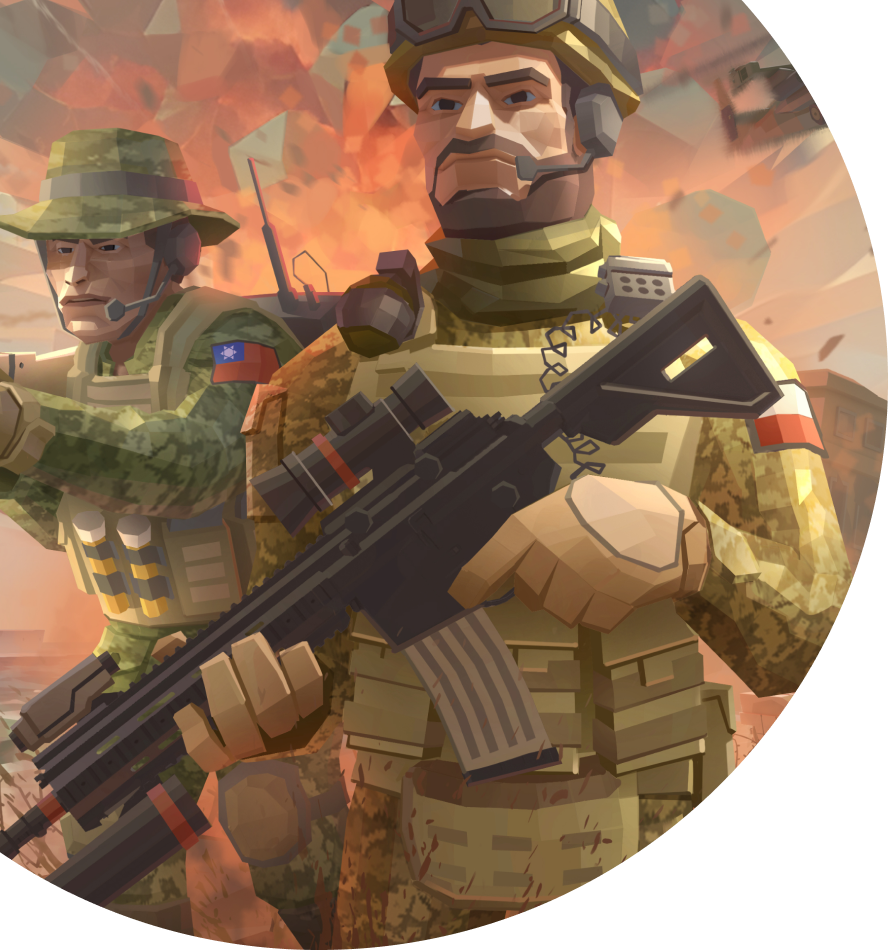
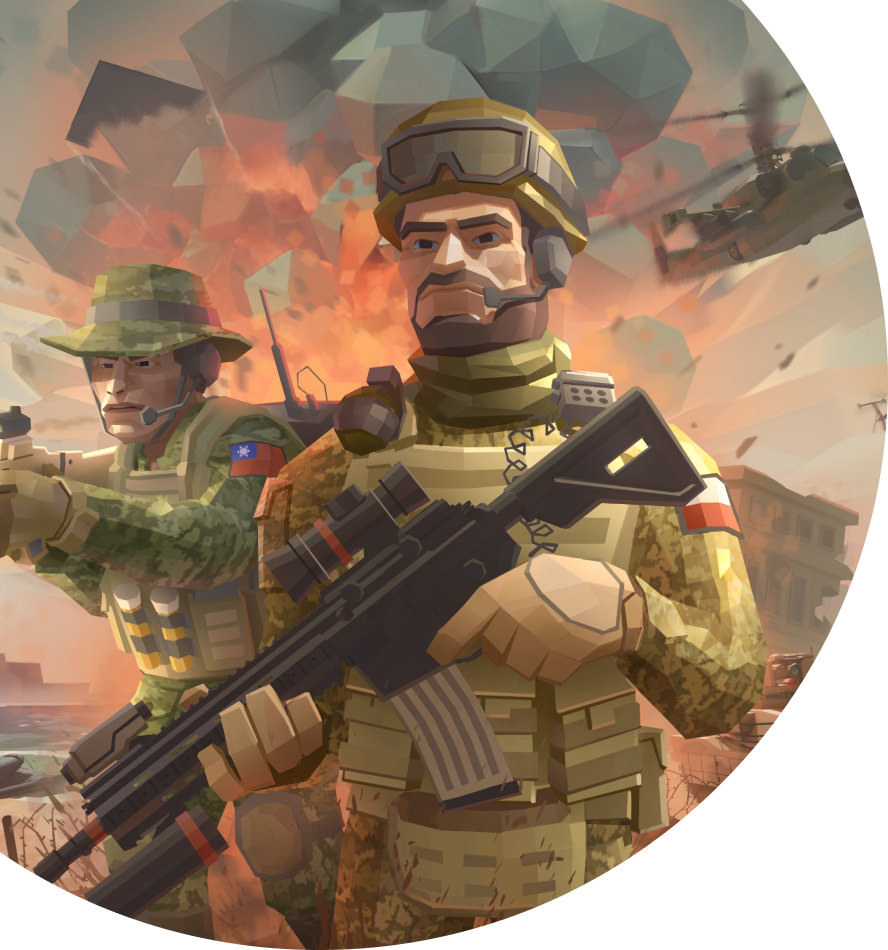
Fixed Responsiveness

diff --git a/style.css b/style.css
@@ -16,7 +16,8 @@
 
 .screenContainer {
     width: 100%;
-    height: 100vh;
+    min-height: 100vh;
+    height: auto;
     display: flex;
     background-color: #000000;
     position: relative;
@@ -29,11 +30,14 @@
 }
 
 .screenContainer .screenMiddle {
+    height: auto;
     width: 35%;
     display: flex;
     flex-direction: column;
     justify-content: center;
     padding-left: 2rem;
+    padding-top: 2rem;
+    padding-bottom: 2rem;
 }
 
 .screenContainer .helmetIcon {
@@ -48,6 +52,7 @@
     width: 200px;
     height: 98px;
     object-fit: contain;
+
 }
 
 .screenContainer .screenMiddle .remainingTime {
@@ -113,19 +118,22 @@
     /* justify-content: space-between; */
 }
 
+
+
 .screenContainer .screenMiddle .buttonAndIcons img {
     width: 40px;
     height: 40px;
     object-fit: contain;
     cursor: pointer;
     transition: all 0.5s ease;
+
 }
 
 .screenContainer .screenMiddle .buttonAndIcons img:hover {
     transform: scale(1.2);
 }
 
-.screenContainer .screenMiddle .buttonAndIcons img:nth-child(2) {
+.screenContainer .screenMiddle .buttonAndIcons a:nth-child(2) {
     margin: 0 2rem;
 }
 
@@ -176,19 +184,22 @@
 
 .screenContainer .screenLeft img {
     width: 100%;
-    height: 80%;
+    /* height: 80%; */
+    height: auto;
     object-fit: contain;
     position: absolute;
-    top: -45px;
+    top: 0;
     left: 0;
 }
 
 .screenContainer .screenRight {
+    height: auto;
     width: 25%;
     text-align: center;
     display: flex;
     justify-content: center;
     align-items: center;
+
 }
 
 .screenContainer .toprightCornerImg {
@@ -208,8 +219,14 @@
 }
 
 .screenContainer .screenRight .timeZoneinnerContainer {
-    width: 100%;
-    margin-top: -8rem;
+    width: 80%;
+    height: auto;
+    /* margin-top: -8rem; */
+    /* padding: 4rem 0; */
+    margin-bottom: 8rem;
+    margin-top: 2rem;
+    /* margin: 8rem 0; */
+
 }
 
 .screenContainer .screenRight .timezonesContainer {
@@ -229,10 +246,10 @@
     color: white;
     margin: 10px 0;
 
-    margin-left: 2rem;
-    margin-right: 2rem;
-
+    /* margin-left: 2rem; */
+    /* margin-right: 2rem; */
     cursor: pointer;
+
 }
 
 .screenContainer .screenRight .countryTimeZone .timezoneleft {
@@ -315,8 +332,13 @@
     }
 
     .screenContainer .screenRight {
-        margin-top: 280px;
+        margin-top: 180px;
         padding-bottom: 10rem;
+        border: 2px solid red;
+    }
+
+    .screenContainer .screenRight .timeZoneinnerContainer {
+        margin: 0;
     }
 
 }
@@ -339,7 +361,7 @@
     }
 
     .screenContainer .screenRight {
-        margin-top: 360px;
+        margin-top: 240px;
     }
 }
 
@@ -349,6 +371,6 @@
     }
 
     .screenContainer .screenRight {
-        margin-top: 410px;
+        margin-top: 290px;
     }
 }

diff --git a/index.html b/index.html
@@ -47,8 +47,11 @@
             </div>
             <div class="buttonAndIcons">
                 <button class='svg-clip-1'>REGISTER</button>
-                <img src="./assets/discord.png" alt="discord_icon" />
-                <img src="./assets/twitter.png" alt="twitter_icon" />
+                <a href="https://discord.gg/worldwar0x" target="_blank">
+                    <img src="./assets/discord.png" alt="discord_icon" />
+                </a>
+                <a href="https://twitter.com/worldwar0x" target="_blank"><img src="./assets/twitter.png"
+                        alt="twitter_icon" /></a>
             </div>
         </div>
         <div class="screenRight">
